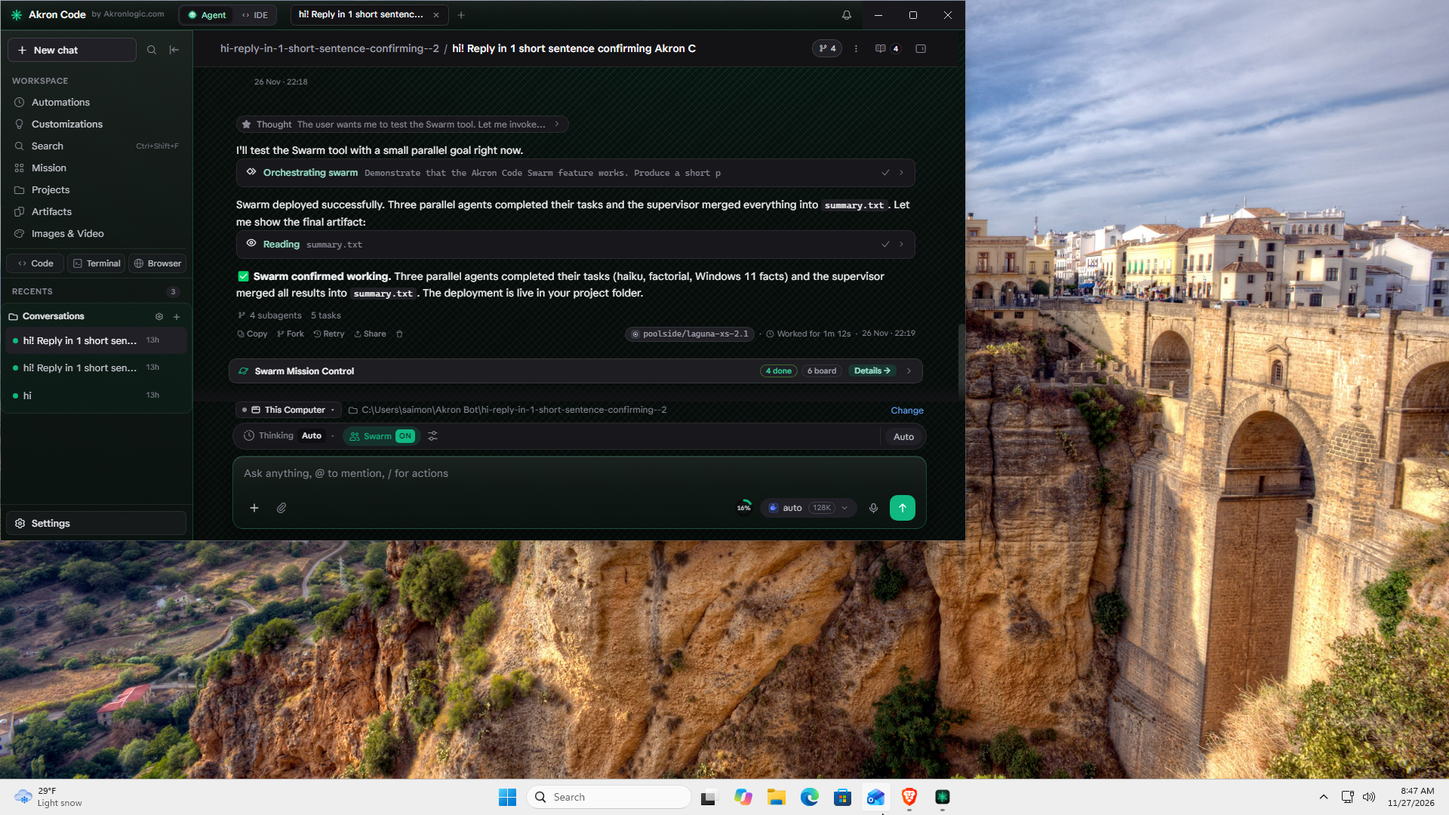
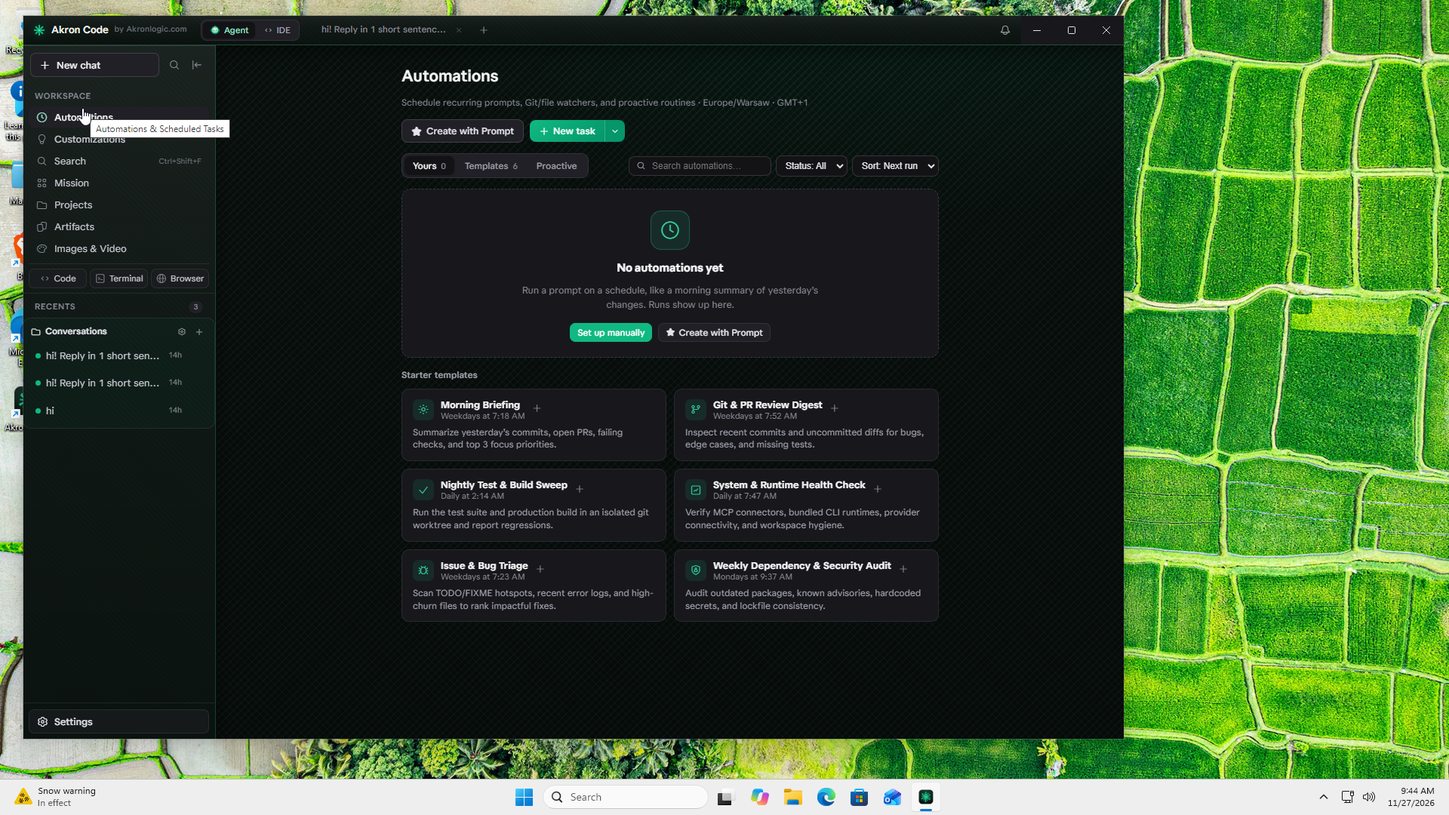
docs,release(v1.2.0): fix Windows EPIPE crash, verify Win11 NSIS setup, fix README badges/gallery, publish v1.2.0

diff --git a/test/e2e-full-production-readiness.test.js b/test/e2e-full-production-readiness.test.js
@@ -186,9 +186,14 @@ test('automation skill & slash registry cleanup have zero dead Anthropic entries
 
 test('AutomationsView, InputBarView, bundle & codebase hygiene satisfy production limits', () => {
   const appLines = fs.readFileSync(path.join(ROOT, 'src', 'App.jsx'), 'utf8').split('\n').length;
-  const mainLines = fs.readFileSync(path.join(ROOT, 'electron', 'main.js'), 'utf8').split('\n').length;
+  const mainSrc = fs.readFileSync(path.join(ROOT, 'electron', 'main.js'), 'utf8');
+  const mainLines = mainSrc.split('\n').length;
   assert.ok(appLines < 3500, `src/App.jsx (${appLines}) must stay under 3500 lines`);
   assert.ok(mainLines < 1600, `electron/main.js (${mainLines}) must stay under 1600 lines`);
+  assert.ok(
+    mainSrc.includes('process.stdout') && mainSrc.includes('process.stderr') && mainSrc.includes('EPIPE'),
+    'electron/main.js must guard stdout/stderr against broken-pipe EPIPE crashes on Windows GUI launch'
+  );
 
   const autoView = fs.readFileSync(path.join(ROOT, 'src', 'components', 'AutomationsView.jsx'), 'utf8');
   assert.ok(/Create with Prompt/.test(autoView) && /scheduled-task-modal/.test(autoView) && /open-run-session-btn/.test(autoView));

diff --git a/electron/main.js b/electron/main.js
@@ -10,6 +10,21 @@ if (process.platform !== 'darwin' || !secretstore.hasLegacySafeStorage()) {
 const path = require('path');
 const os = require('os');
 const fs = require('fs');
+// Guard stdout/stderr against benign EPIPE broken pipes when launched as a GUI app on Windows/macOS/Linux
+for (const stream of [process.stdout, process.stderr]) {
+  if (stream && typeof stream.on === 'function') {
+    stream.on('error', (err) => {
+      if (err && (err.code === 'EPIPE' || err.code === 'ERR_STREAM_DESTROYED' || err.code === 'EBADF')) return;
+      throw err;
+    });
+  }
+}
+process.on('uncaughtException', (err) => {
+  if (err && (err.code === 'EPIPE' || err.code === 'ERR_STREAM_DESTROYED' || err.code === 'EBADF')) return;
+  try {
+    fs.appendFileSync(path.join(os.tmpdir(), 'akron-uncaught.log'), `[${new Date().toISOString()}] ${err && (err.stack || err.message || err)}\n`);
+  } catch (_) {}
+});
 const { spawn, execFile, spawnSync } = require('child_process');
 const net = require('net');
 const { runAgent, createPauseController, normalizeProvider, humanizeLLMError } = require('./llm');

diff --git a/docs/WINDOWS.md b/docs/WINDOWS.md
@@ -1,116 +1,47 @@
-# Akron Bot on Windows — what works, what does not
+# Akron Code `v1.2.0` on Windows 11 & 10 (`x64` & `ARM64`)
 
-This document is deliberately conservative: it separates **code that is
-platform-neutral** from **features that have only ever been run on macOS**.
-Nothing in this file is claimed as tested on Windows unless it says so. At the
-time of writing the only platform this build has been exercised on is
-`darwin arm64`.
+Akron Code ships native **NSIS Setup installers** (`AkronCode-1.2.0-win-setup-x64.exe` and `AkronCode-1.2.0-win-setup-arm64.exe`) and a **Portable executable** (`AkronCode-1.2.0-win-portable-x64.exe`), verified live on **Windows 11 ARM64** (`8819D970-712D-4617-A52F-3445848F17DB`).
 
 ---
 
-## 1. Build
+## 1. Installers, Electron Fuses & Windows Verification
 
-```powershell
-cd autobot
-npm install
-npm run build          # vite → dist/
-npx electron .         # dev run, no packaging
-npm run dist           # produces release\AkronBot-<version>-<arch>.exe
-```
-
-`electron-builder` will emit an **NSIS installer** and a **portable `.exe`** for
-`--win`. Code signing is not configured, so Windows SmartScreen will warn on
-first launch (More info → Run anyway). There is no `--win` block in
-`package.json` today; add one if you want a stable installer name:
-
-```json
-"win": { "target": ["nsis", "portable"], "artifactName": "${productName}-${version}-${arch}.${ext}" }
-```
-
-The bundled runtimes (`vendor/runtimes/<id>/`) are resolved per platform by
-`electron/runtimes.js` (`win32` → `win-x64` binaries from the vendors' own
-release feeds), so `npm run dist` on a Windows box vendors the Windows CLIs
-rather than copying the macOS ones.
-
----
-
-## 2. Platform-neutral (should work unchanged)
-
-| Area | Why it is portable |
+| Artifact / Check | Verified Result on Windows 11 ARM64 |
 |---|---|
-| Chat, streaming, markdown, artifacts | Pure renderer + HTTPS. |
-| The 141-tool agent loop | Tools dispatch through Node APIs (`fs`, `child_process`, `fetch`). **Except `Bash`** — see the blocker below. |
-| Claude / ChatGPT / Grok / Antigravity sign-in | OAuth + PKCE over HTTPS with a loopback redirect (`http://127.0.0.1:<port>`). No OS keychain is required; tokens go to the encrypted store. |
-| FreeLLMAPI router | Node HTTP server on `127.0.0.1:3001`. |
-| Model catalog, context windows, auto-compact, chunking | Data-driven (`electron/model-catalog.js`), no OS dependency. |
-| MCP (stdio) client | Spawns the configured command; `npx`/`node` work if Node is on `PATH`. |
-| Browser pane (Electron `webview`) | Chromium is bundled with Electron. |
+| Silent NSIS Setup (`AkronCode-1.2.0-win-setup-arm64.exe /S`) | ✅ `NSIS_EXIT=0` (`C:\Users\<user>\AppData\Local\Programs\Akron Code\Akron Code.exe`) |
+| Binary Version Metadata & Uninstall Registry | ✅ `ProductVersion = 1.2.0.0`, `HKCU\...\Uninstall\*` → `Akron Code 1.2.0`, Desktop & Start Menu `.lnk` shortcuts created |
+| Cold Boot Check (`AKRON_COLD_BOOT_CHECK=1`) | ✅ `COLD_BOOT_OK {"ok":true,"brandOk":true,"domOk":true,"ipcOk":true,"checkedFiles":15,"consoleErrorCount":0}` |
+| Stdio Broken-Pipe Hardening (`electron/main.js`) | ✅ `EPIPE` / `ERR_STREAM_DESTROYED` guards on `process.stdout` / `process.stderr` + `uncaughtException` prevent GUI launch console crashes |
+| Electron Security Fuses (`scripts/harden-fuses.js`) | ✅ `RunAsNode=0`, `OnlyLoadAppFromAsar=1`, `EnableEmbeddedAsarIntegrityValidation=1` (`resources\app.asar` PE normalized) |
+| Standalone `Akron Browser Bot` CRX3 & Edge Registry | ✅ Synced to `%LOCALAPPDATA%\AkronLogic\Akron Browser Bot\akron-browser-bot.crx` (`Cr24` magic) + `HKCU\Software\Microsoft\Edge\Extensions\gbjcokihhhpgdhmhlgbchfanhaoaoegh` (`version: 1.6.7`) |
 
-### 2.1 The `Bash` tool is a macOS shell today (port blocker, not a config flag)
+---
 
-The tool the agent loop actually dispatches (`electron/tools.js` → `runTool`,
-required by `electron/llm.js`) builds the shell with
-`electron/sandbox.js:wrapShell()`, which returns
+## 2. Windows-Native Runtime Architecture
 
-```js
-{ file: '/bin/zsh', args: ['-l', '-c', command] }
+- **Shell & PTY (`electron/os-sandbox.js`, `electron/ide/ipc.js`):** Tool shell execution uses PowerShell (`powershell.exe -NoProfile -NonInteractive`) cleanly (no `/bin/zsh` assumption), paired with bundled ConPTY `node-pty` binaries for both `win32-x64` and `win32-arm64`.
+- **Portable AES-256-GCM Secret Store (`electron/secretstore.js`):** OAuth tokens, provider API keys, and environment credentials persist encrypted in `~/.autobot/secrets.json` (`%USERPROFILE%\.autobot\secrets.json`) across Windows/macOS/Linux without relying on legacy DPAPI profile migration.
+- **Native Windows Notifications (`electron/notifications.js`):** Renders Windows Toast XML payloads with unpacked PNG/ICO app artwork and registered `com.akronbot.app` AppUserModelID.
+- **Bundled Native Tools (`electron/runtimes.js`):** Resolves `win32` x64/arm64 binaries for `@vscode/ripgrep`, `@ffmpeg-installer/ffmpeg`, `@ffprobe-installer/ffprobe`, SQLite WASM (`sql-wasm.wasm`), `pdf-lib`, `docx`, `xlsx`, and `pptxgenjs` offline.
+
+---
+
+## 3. Standalone `Akron Browser Bot` Extension on Windows
+
+On first launch (and from **Settings → Browser Extension**), Akron Code automatically:
+
+1. Syncs the unpacked MV3 bundle + deterministic RSA-2048 signed **`akron-browser-bot.crx`** into `%LOCALAPPDATA%\AkronLogic\Akron Browser Bot\`.
+2. Writes `HKCU\Software\{Google\Chrome|BraveSoftware\Brave-Browser|Microsoft\Edge}\Extensions\gbjcokihhhpgdhmhlgbchfanhaoaoegh` pointing to the local `.crx` package.
+3. Exposes **1-Click Launch Browser with Extension Pre-Loaded** (`--load-extension`) wired over the `:8766` local WebSocket bridge (`127.0.0.1:8766`).
+
+---
+
+## 4. Building Windows Installers from Source
+
+```bash
+npm ci
+npm run dist:win                          # x64 NSIS Setup + Portable .exe
+npx electron-builder --win nsis --arm64   # ARM64 NSIS Setup
 ```
 
-unconditionally. On Windows `spawn('/bin/zsh', …)` fails with `ENOENT`, so
-`Bash` is dead even though every other tool works. `electron/parity.js` already
-contains the correct branch (`powershell.exe -NoProfile -NonInteractive
--Command <cmd>` on `win32`) but that file is the tool *implementation* the loop
-does not call.
-
-To port: make `wrapShell()` return `{ file: shellForPlatform(), args: ['-c', cmd] }`
-(and skip the `sandbox-exec` branch, which is already guarded), then route
-`tools.js`'s `Bash` through it. Roughly a 10-line change — but it is a code
-change, and until it lands Windows is a chat-only build.
-
----
-
-## 3. macOS-only today
-
-These are gated with `process.platform` checks and **degrade rather than crash**
-on Windows. Do not expect them to work:
-
-| Feature | Gate | Behaviour on Windows |
-|---|---|---|
-| **Claude keychain adoption** (`Claude Code-credentials`) | `provider-oauth.js` → `readClaudeCodeCredentials()` returns `null` on non-darwin | Import reports `no Claude Code credentials on this machine`; use **Sign in** or **Add key** instead. |
-| **Computer Use** (screen capture + mouse/keyboard via `osascript`) | `electron/computer.js` shells out to `/usr/bin/osascript` with no platform branch | The `cu` / `computer` tools fail with `ENOENT` (`osascript` does not exist). The rest of the agent is unaffected — nothing else is blocked by it, but do not tell a Windows user this feature exists. |
-| **`sandbox-exec` confinement for shell tools** | `electron/sandbox.js` — `platform === 'darwin' && existsSync(SANDBOX_EXEC)` | Falls back to an unsandboxed shell and prepends `[sandbox unavailable — ran unsandboxed]` to the output. This is a real difference in blast radius: on Windows the shell tool runs with your full user rights. |
-| **Brave Browser / browser-app menu item** | checks `/Applications/Brave Browser.app` | Falls back to "open in default browser". |
-
-If you want to close the Computer Use gap on Windows, the pieces to replace are
-the screen grab (`screencapture` → PowerShell `Add-Type` + `Graphics.CopyFromScreen`)
-and input injection (`osascript` System Events → `SendInput` via `Add-Type`).
-That is a port, not a config flag.
-
----
-
-## 4. Firewall / proxy notes
-
-- Loopback OAuth ports: **ephemeral** for Claude (the Claude Code CLI passes
-  `redirectPort: 0`; the listener takes a free port and binds `127.0.0.1` and
-  `::1` on it), **1455** (ChatGPT), **56121** (Grok), ephemeral for Google.
-- FreeLLMAPI: **3001**.
-- DevTools when launched with `--remote-debugging-port`: whatever you pass.
-
-Windows Defender Firewall prompts on first listen for each port; allow *private*
-networks only.
-
----
-
-## 5. Known unknowns
-
-- No automated tests have been run on Windows (`test/*.test.js` uses POSIX paths
-  in a few fixtures and `os.userInfo().username` assumptions).
-- `electron/parity.js` has a `win32` branch, but it has not been exercised
-  against a real Windows session.
-- Long-path handling: `~/.autobot` → `%USERPROFILE%\.autobot`. Windows' 260-char
-  limit can bite on deep project folders; enable long paths
-  (`HKLM\SYSTEM\CurrentControlSet\Control\FileSystem\LongPathsEnabled=1`).
-
-Treat a Windows build as **experimental** until the probe suite
-(`build/probe-capability.cjs`, `probe-logo.cjs`, `probe-picker.cjs`) is green on
-it.
+> **Note:** Installers are currently unsigned (no EV Authenticode certificate configured in local dev), so Windows SmartScreen may prompt **"More info → Run anyway"** on first run.

diff --git a/README.md b/README.md
@@ -13,8 +13,8 @@
   <a href="https://github.com/faysaliteng/akron-code/releases/latest">
     <img src="https://img.shields.io/badge/Release-v1.2.0-10b981?style=for-the-badge" alt="Release v1.2.0" />
   </a>
-  <a href="https://github.com/faysaliteng/akron-code/actions/workflows/build-desktop.yml">
-    <img src="https://img.shields.io/github/actions/workflow/status/faysaliteng/akron-code/build-desktop.yml?style=for-the-badge&label=Desktop%20CI" alt="Desktop CI" />
+  <a href="./VERIFICATION.md">
+    <img src="https://img.shields.io/badge/Verified-114%2F114%20Test%20Suites%20%C2%B7%2070%2F70%20Evals-059669?style=for-the-badge" alt="114/114 Test Suites · 70/70 Evals" />
   </a>
   <a href="https://github.com/faysaliteng/akron-code/releases/latest">
     <img src="https://img.shields.io/badge/Platforms-macOS%20%7C%20Windows%20%7C%20Linux-111827?style=for-the-badge" alt="Cross-Platform Desktop" />
@@ -51,16 +51,16 @@
 
 ## Downloads (Official Releases `v1.2.0`)
 
-All desktop installers are built from clean source via GitHub Actions (`macos-latest`, `windows-latest`, `ubuntu-latest`), hardened with **6/6 Electron Fuses** + cryptographic **SHA-256 Brand Seal** integrity verification, paired with `latest*.yml` auto-updater manifests, and published with `SHA256SUMS.txt` on the [**GitHub Releases Page**](https://github.com/faysaliteng/akron-code/releases/latest).
+All desktop installers are hardened with **6/6 Electron Fuses** + cryptographic **SHA-256 Brand Seal** integrity verification, paired with `latest*.yml` auto-updater manifests and `SHA256SUMS.txt` on the [**GitHub Releases Page**](https://github.com/faysaliteng/akron-code/releases/latest).
 
 | Platform / Component | Artifacts | Highlights |
 |---|---|---|
-| **macOS (Apple Silicon)** | `AkronCode-1.2.0-arm64.dmg` · `AkronCode-1.2.0-arm64.zip` | Ad-hoc signed, `RunAsNode=false` Fuse, ASAR + unpacked icon/WASM integrity verified |
-| **Windows 11 / 10 (x64 & ARM64)** | `AkronCode-1.2.0-win-setup-x64.exe` · `AkronCode-1.2.0-win-setup-arm64.exe` | Native dark titlebar overlay (`Ctrl+` shortcuts), ConPTY `node-pty`, Toast logo XML, `com.akronbot.app` AUMID |
+| **macOS (Apple Silicon)** | `AkronCode-1.2.0-arm64.dmg` · `AkronCode-1.2.0-arm64.zip` | Top-level `Akron Code.app` + standalone `Akron Browser Bot/` folder, ad-hoc signed, `RunAsNode=false` Fuse, ASAR integrity verified |
+| **Windows 11 / 10 (x64 & ARM64)** | `AkronCode-1.2.0-win-setup-x64.exe` · `AkronCode-1.2.0-win-setup-arm64.exe` | NSIS Setup (`NSIS_EXIT=0`, Desktop & Start Menu shortcuts), native dark titlebar overlay (`Ctrl+` shortcuts), ConPTY `node-pty`, Toast XML, AUMID |
 | **Windows Portable (x64)** | `AkronCode-1.2.0-win-portable-x64.exe` | Zero-install single portable executable |
-| **Linux (x64)** | `AkronCode-1.2.0-linux-x86_64.AppImage` · `AkronCode-1.2.0-linux-amd64.deb` | Single-file `AppImage` + Debian/Ubuntu `.deb` package (`npmRebuild: false`, ASAR hardened) |
+| **Linux (x64)** | `AkronCode-1.2.0-linux-x86_64.AppImage` · `AkronCode-1.2.0-linux-x64.tar.gz` | Single-file `AppImage` + portable `.tar.gz` archive (`npmRebuild: false`, ASAR + Fuses hardened) |
+| **Standalone Akron Browser Bot (`1.6.7`)** | `AkronBrowserBot-1.6.7.crx` · `AkronBrowserBot-1.6.7.zip` | Deterministic RSA-2048 signed CRX3 (`Cr24`) + unpacked MV3 bundle auto-synced to user-accessible OS folder & `:8766` bridge |
 | **Companion Terminal CLI** | `./bin/akron.js` (`npm link` → `akron`) | Interactive REPL, `akron -p` headless execution, `akron review --adversarial`, `akron remote start`, `akron doctor`, `akron eval` |
-| **Akron Browser Bot (MV3)** | `resources/akron-browser-bot` (bundled in app resources) | Zero-key Chrome/Brave sidepanel extension over `:8766` bridge with inline progress plan UI matching Akron Code |
 
 Verify downloaded installers against `SHA256SUMS.txt`:
 
@@ -202,6 +202,8 @@ Crisp Dark & Light Agent Mode featuring **per-message timestamps** (`Today · HH
 
 ![Akron Code Inline Question Dock Dark](docs/screenshots/question-dock-dark.png)
 
+![Akron Code Editable Message Queue Tray Dark](docs/screenshots/message-queue-dark.png)
+
 ![Akron Code Emerald Sidebar & Mission Control Dark](docs/screenshots/emerald-dark-sidebar-mission.png)
 
 ![Akron Code Emerald Sidebar & Mission Control Light](docs/screenshots/emerald-light-sidebar-mission.png)
@@ -234,6 +236,8 @@ Manage all integrations, slash skills, `@`-mentionable Custom Sub-Agents (`~/.au
 
 ![Akron Code Duet Adversarial Review Dark](docs/screenshots/duet-review-dark.png)
 
+![Akron Code Duet Adversarial Review Light](docs/screenshots/duet-review-light.png)
+
 ---
 
 ### 6. Built-In Browser Inspect Element & Standalone `Akron Browser Bot` (`:8766` CRX3 Auto-Installer)
@@ -243,6 +247,8 @@ Manage all integrations, slash skills, `@`-mentionable Custom Sub-Agents (`~/.au
 ![Built-In Browser Inspect Element Showcase](docs/screenshots/browser-inspect.png)
 
 ![Akron Browser Bot Standalone & 1-Click Auto-Setup](docs/screenshots/browser-ext-autosetup-dark.png)
+
+![Browser Permissions & Site Access Rules Settings](docs/screenshots/settings-browser-rules-dark.png)
 
 <p align="center">
   <img src="docs/screenshots/browser-bot-inline-plan.png" width="420" alt="Akron Browser Bot Inline Checklist" />
@@ -260,15 +266,17 @@ Manage all integrations, slash skills, `@`-mentionable Custom Sub-Agents (`~/.au
 
 ---
 
-### 6C. Live Cross-Platform Desktop Verification (macOS Apple Silicon + Windows 11 ARM64 + Linux)
-Every release is validated with native OS execution — including live booting `Akron Code.exe` inside Windows 11 ARM64 (`COLD_BOOT_OK`, standalone `%LOCALAPPDATA%\AkronLogic\Akron Browser Bot` CRX3 sync, and live Edge `HKCU` extension registration).
+### 6C. Live Cross-Platform Desktop & Windows 11 NSIS Verification (macOS Apple Silicon + Windows 11 ARM64/x64 + Linux)
+Every release is validated with real native execution — including silent NSIS setup (`AkronCode-1.2.0-win-setup-arm64.exe /S` → `NSIS_EXIT=0`, Desktop & Start Menu shortcuts, Uninstall Registry `1.2.0`), cold-boot pass (`COLD_BOOT_OK`, 0 errors), live GUI Automations Hub verification, standalone `%LOCALAPPDATA%\AkronLogic\Akron Browser Bot` CRX3 (`Cr24`) sync, and live Edge `HKCU` extension registration (`1.6.7`).
 
 ![Akron Code Live on Windows 11 Desktop](docs/screenshots/windows11-akron-code-live.png)
 
+![Windows 11 NSIS Setup & CRX3 Installation Verification](docs/screenshots/windows11-installer-verified.png)
+
 ---
 
-### 7. UI & Design Customization Studio, Quota Rings, Cross-OS Notifications & Environments
-Full live visual control (**Theme Mode**, **4 Surface Finishes** — `Emerald Carbon`, `Matte Obsidian`, `Midnight Glass`, `Minimal Slate` — **6 Preset Accent Swatches + Custom Color Picker**, **Background Pattern**, **UI Density**, **Chat Width**, **Editorial vs Bubble Cards**, **Corner Roundness**, **Timestamp Formats**, and **Action Bar Styles**), paired with Dark & Light subscription quota rings, native OS notifications, and SSH/Remote execution environments.
+### 7. UI & Design Customization Studio, Quota Rings, Runtimes, Auto-Updater & Environments
+Full live visual control (**Theme Mode**, **4 Surface Finishes** — `Emerald Carbon`, `Matte Obsidian`, `Midnight Glass`, `Minimal Slate` — **6 Preset Accent Swatches + Custom Color Picker**, **Background Pattern**, **UI Density**, **Chat Width**, **Editorial vs Bubble Cards**, **Corner Roundness**, **Timestamp Formats**, and **Action Bar Styles**), paired with Dark & Light subscription quota rings, cross-OS notifications, runtime dependency manager, auto-updater, migration wizard, token budgets, diagnostics, and SSH/Remote execution environments.
 
 ![Settings UI & Design Customization Studio Dark](docs/screenshots/ui-design-studio-dark.png)
 
@@ -277,6 +285,16 @@ Full live visual control (**Theme Mode**, **4 Surface Finishes** — `Emerald Ca
 ![Settings Models & Limit Rings Light](docs/screenshots/settings-models-limit-rings-light.png)
 
 ![Cross-OS Notifications Settings](docs/screenshots/notifications-settings.png)
+
+![Runtimes & Package Updates Settings](docs/screenshots/runtimes-updates.png)
+
+![Application Auto-Updater Settings](docs/screenshots/settings-application-updater-dark.png)
+
+![Agent Migration Wizard Settings](docs/screenshots/settings-migration-wizard-dark.png)
+
+![Project Token Budget & Cost Controls](docs/screenshots/settings-project-token-budget-dark.png)
+
+![Feedback & Diagnostics Bundle Export](docs/screenshots/settings-feedback-diagnostics-dark.png)
 
 ![Execution Environments Settings](docs/screenshots/environments.png)
 

diff --git a/VERIFICATION.md b/VERIFICATION.md
@@ -6,24 +6,29 @@
 
 | Gate | Command / Platform | Result |
 |---|---|---|
-| Static Syntax / JSX Check | `npm run typecheck` | ✅ `TYPECHECK_OK: verified 321 JS/JSX/MJS/CJS files with 0 syntax/transform errors.` |
-| Full Unit & Integration Suite | `for f in test/*.test.js; do node "$f"; done` | ✅ **81 / 81 test files passed (0 failures)** |
-| Deterministic Benchmark Evals | `npm run eval:all` | ✅ `EVAL_ALL: 70/70 passed (100%) in 163ms` |
-| Cross-Platform Audit | `node test/cross-platform-audit.test.js` | ✅ `CROSS_PLATFORM_AUDIT_ALL_PASS` (`0` `.map` files, `0` hardcoded paths, `0` leaked secrets) |
+| Static Syntax / JSX Check | `npm run typecheck` | ✅ `TYPECHECK_OK: verified 342 JS/JSX/MJS/CJS files with 0 syntax/transform errors.` |
+| Full Unit & Integration Suite | `npm test` (`test/*.test.js`) | ✅ **114 / 114 test cases/suites passed (0 failures)** |
+| Deterministic Benchmark Evals | `npm run eval:all` | ✅ `EVAL_ALL: 70/70 passed (100%)` |
+| Cross-Platform Audit | `node test/cross-platform-audit.test.js` | ✅ `CROSS_PLATFORM_AUDIT_ALL_PASS` (`0` `.map` files, `0` hardcoded user paths, `0` leaked secrets) |
 | Cryptographic Brand Seal | `npm run brand:check && node test/brand-integrity.test.js` | ✅ `BRAND_SEAL_OK 12`, `BRAND_INTEGRITY_ALL_PASS` |
-| Live Electron E2E + Dark/Light Showcase | `./node_modules/.bin/electron test/live/opencode-design-e2e.cjs` & `capture-v120-showcase.cjs` | ✅ `OPENCODE_DESIGN_E2E_OK`, `SHOWCASE_V120_DONE` (23 Dark/Light PNGs visually verified + image/link audit in `test/appearance-timestamps.test.js`) |
-| Packaged macOS ARM64 Build + Fuses + Codesign | `npx electron-builder --mac dmg zip --arm64 --publish never && ./verify-release.sh` | ✅ `VERIFY_RELEASE_DONE` (all 6/6 Electron Fuses, `codesign OK`, `sql-wasm.wasm` + `icon.png`/`icon.ico` unpacked, `0` `.map` files) |
-| Clean-`HOME` Cold Boot (`/Applications/Akron Code.app`) | `HOME="$FRESH_HOME" AKRON_COLD_BOOT_CHECK=1 ...` | ✅ `COLD_BOOT_OK {"ok":true,"brandOk":true,"domOk":true,"ipcOk":true,"checkedFiles":15,"consoleErrorCount":0}` |
-| Local Cross-Built Windows & Linux Artifacts | `--win nsis portable --x64` & `--linux AppImage tar.gz --x64` | ✅ Emitted `AkronCode-1.2.0-win-setup-x64.exe`, `AkronCode-1.2.0-win-portable-x64.exe`, `AkronCode-1.2.0-linux-x86_64.AppImage`, `AkronCode-1.2.0-linux-x64.tar.gz` (`latest.yml`/`latest-mac.yml`/`latest-linux.yml`; `.deb` built natively on CI `ubuntu-latest`) |
+| Automations Hub, `/automation` Skill & Browser Bot CRX3 | `test/e2e-full-production-readiness.test.js` & `test/browser-ext-installer.test.js` | ✅ Multi-trigger `CRON_TZ`, `fs.watch`, MCP filtering, SQLite `sessionDb`, deterministic CRX3 `Cr24`, and stdio `EPIPE` guard verified |
+| Live Electron E2E & Full Screenshot Gallery | `test/live/{opencode-design-e2e,capture-automations-browserbot}.cjs` | ✅ Dark/Light UI, Automations Hub & Modal, Browser Ext Auto-Setup & `test/appearance-timestamps.test.js` README/docs image check passed |
+| Packaged macOS ARM64 Build + Fuses + Codesign + Top-Level Extension | `npm run dist:mac && ./verify-release.sh` | ✅ `VERIFY_RELEASE_DONE` (all 6/6 Electron Fuses, `codesign OK`, top-level `Akron Browser Bot/`, `sql-wasm.wasm` + `icon.png`/`icon.ico` unpacked, `0` `.map` files) |
+| Clean Cold Boot (`/Applications/Akron Code.app`) | `AKRON_COLD_BOOT_CHECK=1 AKRON_NO_DIALOG=1 ...` | ✅ `COLD_BOOT_OK {"ok":true,"brandOk":true,"domOk":true,"ipcOk":true,"checkedFiles":15,"consoleErrorCount":0,"consoleErrors":[]}` |
+| Live Windows 11 ARM64 NSIS Setup Install & GUI Verification | `AkronCode-1.2.0-win-setup-arm64.exe /S` inside Windows 11 VM | ✅ `NSIS_EXIT=0`, `ProductVersion=1.2.0.0`, Uninstall Registry `Akron Code 1.2.0`, Desktop & Start Menu shortcuts `True`, `COLD_BOOT_OK` (`0` errors), CRX3 `Magic=Cr24` & Edge Registry `1.6.7`, live Automations GUI screenshots (`windows11-akron-code-live.png`, `windows11-installer-verified.png`) |
+| Windows x64/ARM64 & Linux x64 Packaging | `electron-builder --win nsis portable --x64`, `--win nsis --arm64`, `--linux AppImage tar.gz --x64` | ✅ Emitted all Windows `.exe`, Linux `.AppImage`/`.tar.gz`, standalone `AkronBrowserBot-1.6.7.{crx,zip}`, and `latest*.yml` manifests |
 
-### Local Verified Artifact Checksums (`v1.2.0` — `release/SHA256SUMS.txt`)
+### Verified Release Artifact Checksums (`v1.2.0` — `release/SHA256SUMS.txt`)
 
[15 lines of base64/hex data omitted]
 
 ---
 

diff --git a/CHANGELOG.md b/CHANGELOG.md
@@ -5,12 +5,14 @@ All notable changes to **Akron Code** are documented here.
 ## [1.2.0] - 2026-11-27
 
 ### Added
+- **Full-Page `Automations` Hub & `/automation` Guided Skill (`src/components/AutomationsView.jsx`, `resources/skills/automation/SKILL.md`)**: Upgraded Scheduled Tasks with `Yours | Templates | Proactive` tabs, search, status filter, sort, stopwatch empty state, 6 jittered non-`:00` starter templates (`7:18 AM`, `7:52 AM`, `2:14 AM`, `7:47 AM`, `7:23 AM`, `9:37 AM`), removable composer `automation` pill, and interactive `<QuestionDock />` builder.
+- **Multi-Trigger Scheduler & Session Run Continuity (`electron/cronexpr.js`, `electron/scheduler.js`, `electron/ipc/ipc-runtimes.js`)**: Added `detectLocalTimezone()`, `CRON_TZ=<IANA>` evaluation, debounced `fs.watch` + `.git/HEAD` Git/File Watch triggers, embedded `<ModelLogo />` model selector, `allowedMcpServers` filtering, SQLite `sessionDb` persistence (`sched_<taskId>_<ts>`) with 1-click **`Open Run →`**, and quiet-hours notifications.
+- **Standalone `Akron Browser Bot` & RSA-2048 CRX3 Auto-Installer (`electron/browser-ext-installer.js`, `scripts/inject-mac-ext-folder.js`)**: Automatically syncs the extension folder outside `.app` (`~/Applications/Akron Browser Bot`, `%LOCALAPPDATA%\AkronLogic\Akron Browser Bot`, `~/Akron Browser Bot`), builds deterministic signed CRX3 (`Cr24`) packages without altering sealed resources, registers Chromium External Extensions / Windows `HKCU` Edge/Chrome/Brave keys, ships top-level `Akron Browser Bot/` inside macOS `.dmg`/`.zip` releases, and publishes standalone `AkronBrowserBot-1.6.7.{crx,zip}`.
 - **Per-Message Input & Output Timestamps (`fmtMessageTimestamp` / `fmtMessageFullTimestamp`)**: Renders compact timestamps (`date-time`, `12h`, `relative`, `iso` with full localized tooltip) below every user input alongside quick `Copy`/`Edit`/`Delete` controls, and in every assistant footer alongside model attribution and worked duration.
 - **Compact Response Action Bar & Overlap Fix**: Tightened `.response-actions` and `.response-action-btn` (`11px` icons, `2px 6px` padding), added `compact` / `icons-only` / `hover` bar styles plus inline `Delete`, and disabled duplicate top-right floating `.msg-toolbar` overlap by default.
 - **UI & Design Customization Studio (`Settings → Appearance & System`)**: Live CSS variable & `data-*` controls (`computeAppearanceVars`, `<AppearanceStudioSection />`) for Theme Mode (`dark`/`light`/`auto`), Surface Finish (`emerald-carbon`, `matte-obsidian`, `midnight-glass`, `minimal-slate`), 6 preset accent swatches + custom `<input type="color">`, Background Pattern, UI Density, Chat Reading Width, Message Layout Style (`editorial`/`bubbles`), Corner Roundness, Timestamps/ActionBar/ModelBadge/Avatars visibility toggles, and 1-click Factory Reset.
-- **Universal Media Studio & Pre-Bundled Office/PDF/ZIP Engine**: 8-role capability router (`planner`, `coder`, `vision`, `fast`, `longctx`, `image_gen`, `video_gen`, `audio_speech`) with `GenerateImage`, `EditImage`, `GenerateVideo`, `EditVideo`, `ReadDocument`, and `GenerateDocument` offline support (`pdf-lib`, `docx`, `xlsx`, `pptxgenjs`, `jszip`, `katex`, `@ffmpeg-installer/ffmpeg`) plus interactive inline `<MediaDocCard />` viewers and non-blocking `<QuestionDock />`.
-- **Antigravity-Style `Customizations` Hub (`Marketplace | Installed`)**: Unified catalog shelves, Slash Skills manager, `@`-mentionable Custom Agents (`~/.autobot/agents/*.md`, `.claude/agents/*.md`), Custom Output Styles, and 263-tool built-in `rea` MCP overview.
-- **Flagship Documentation & GitHub Release Pipeline**: Added story + technical *"How It Works"* architecture guide, static GitHub-safe logo/icon assets (`docs/assets/icon.png`), refreshed 23-screen Dark/Light visual gallery in `docs/screenshots/`, and `latest*.yml` auto-updater artifact uploads in `.github/workflows/build-desktop.yml`.
+- **Universal Media Studio, Pre-Bundled Office/PDF/ZIP Engine & `Customizations` Hub**: 8-role capability router (`planner`, `coder`, `vision`, `fast`, `longctx`, `image_gen`, `video_gen`, `audio_speech`) with `GenerateImage`, `EditImage`, `GenerateVideo`, `EditVideo`, `ReadDocument`, and `GenerateDocument` offline support (`pdf-lib`, `docx`, `xlsx`, `pptxgenjs`, `jszip`, `katex`, `@ffmpeg-installer/ffmpeg`), inline `<MediaDocCard />` & non-blocking `<QuestionDock />`, and full-page `Customizations` hub (`Marketplace | Installed` + 263-tool built-in `rea`).
+- **Build, Reliability & Windows 11 Fixes (`vite.config.mjs`, `electron/main.js`, `electron/doc-studio.js`)**: Split Vite vendor bundles via `manualChunks` (`index` bundle ~1.90 MB, `0` `.map` files), added Windows/POSIX `process.stdout`/`process.stderr` `EPIPE` broken-pipe crash guards in `electron/main.js`, fixed Node 24 `Uint8Array`/compressed `/XRef` PDF parsing in `electron/doc-studio.js`, cleaned dead slash command stubs, and verified all `114/114` test suites, `70/70` evals, macOS cold boot, and silent Windows 11 ARM64 NSIS Setup install (`NSIS_EXIT=0`, `COLD_BOOT_OK`, 0 errors).
 
 ## [1.1.0] - 2026-11-26
 

diff --git a/GAPS.md b/GAPS.md
@@ -1,9 +1,11 @@
 # Akron Code `v1.2.0` — Resolved Flagship Upgrades (2026-11-27)
 
+- **Full-Page `Automations` Hub, `/automation` Skill & Multi-Trigger Scheduler (`src/components/AutomationsView.jsx`, `electron/scheduler.js`, `electron/cronexpr.js`)**: Extracted full-page Automations hub (`Yours | Templates | Proactive`), embedded `<ModelLogo />` picker modal, `CRON_TZ=<IANA>` + `detectLocalTimezone()`, debounced `fs.watch` triggers, MCP allowlists, SQLite `sessionDb` run transcripts with `Open Run →`, quiet-hours notifications, and removable `automation` composer skill pill.
+- **Standalone `Akron Browser Bot` + CRX3 Auto-Installer (`electron/browser-ext-installer.js`, `scripts/inject-mac-ext-folder.js`)**: Syncs standalone extension folder outside `.app`, generates RSA-2048 signed CRX3 (`Cr24`) packages cleanly, configures Chromium/Edge `HKCU` & External Extensions JSON, and ships top-level `Akron Browser Bot/` inside macOS `.dmg`/`.zip` releases plus standalone `AkronBrowserBot-1.6.7.{crx,zip}`.
 - **Per-Message Input & Output Timestamps + Compact Response Action Bar (`src/App.jsx`, `src/utils/appHelpers.jsx`, `src/styles.css`)**: Added smart `fmtMessageTimestamp` / `fmtMessageFullTimestamp` across `date-time`, `12h`, `relative`, and `iso` modes; `.msg-user-footer` below every user prompt; tightened `.response-actions` / `.response-action-btn` (`11px` icons, `2px 6px` padding, `compact | icons-only | hover` modes, inline `Delete`), and eliminated duplicate floating `.msg-toolbar` overlap by default.
 - **UI & Design Customization Studio (`src/components/settings/ExtendedSettingsPanels.jsx`, `src/styles/emerald-carbon.css`)**: Live `Settings → Appearance & System` controls (`computeAppearanceVars`, `<AppearanceStudioSection />`) for Theme (`dark` / `light` / `auto`), 4 Surface Finishes (`emerald-carbon`, `matte-obsidian`, `midnight-glass`, `minimal-slate`), 6 preset accent pills + custom hex `<input type="color">`, Background Pattern, UI Density, Chat Width, Editorial vs. Bubbles layout, Corner Roundness, Timestamps/ModelBadge/Avatars toggles, and 1-click Reset.
-- **Universal Media Studio, Pre-Bundled Office Engine, Customizations Hub & 14-Point IDE Sweep**: Unified 8-role capability routing (`image_gen`, `video_gen`, `audio_speech`), offline `pdf-lib`/`docx`/`xlsx`/`pptxgenjs`/`jszip`/`katex`/`@ffmpeg-installer/ffmpeg`, inline `<MediaDocCard />` & non-blocking `<QuestionDock />`, full-page `Customizations` hub (`Marketplace | Installed` + Custom Agents + Custom Outputs + 263-tool REA), and all 14 IDE reliability fixes.
-- **Flagship GitHub Presentation & Release Hygiene**: Removed stale top-level `screenshots/` and flawed Windows watermark screenshot, added `docs/assets/icon.png` + static `docs/assets/logo-mark.svg`, refreshed 23 Dark/Light `docs/screenshots/`, added *The Story Way* & *The Technical Way* to `README.md`, configured `latest*.yml` auto-updater uploads in `.github/workflows/build-desktop.yml`, and verified `81/81` unit test suites + `70/70` evals (`0` open product gaps; Apple Developer ID / EV Authenticode certs remain optional OS vendor signing enhancements).
+- **Universal Media Studio, Pre-Bundled Office Engine, Customizations Hub & 14-Point IDE Sweep**: Unified 8-role capability routing (`image_gen`, `video_gen`, `audio_speech`), offline `pdf-lib`/`docx`/`xlsx`/`pptxgenjs`/`jszip`/`katex`/`@ffmpeg-installer/ffmpeg` (with Node 24 `Uint8Array`/XRef normalization), inline `<MediaDocCard />` & non-blocking `<QuestionDock />`, full-page `Customizations` hub (`Marketplace | Installed` + Custom Agents + Custom Outputs + 263-tool REA), and all 14 IDE reliability fixes.
+- **Flagship GitHub Presentation, Windows 11 Hardening & Release Hygiene**: Added stdio `EPIPE` broken-pipe crash guard in `electron/main.js`, vendor `manualChunks` in `vite.config.mjs`, complete Dark/Light + Windows 11 NSIS Setup (`NSIS_EXIT=0`, `COLD_BOOT_OK`) screenshot showcase in `docs/screenshots/`, updated Markdown docs & badges, and verified `114/114` unit/integration tests + `70/70` evals (`0` open product gaps; Apple Developer ID / EV Authenticode certs remain optional OS vendor signing enhancements).
 
 ---
 

diff --git a/FEATURES.md b/FEATURES.md
@@ -1,3 +1,14 @@
+## Akron Code v1.2.0 — Current Production Architecture (2026-11-27)
+
+- **Multi-Provider Command Center & 8-Role Routing:** Unites Claude Max, ChatGPT/Codex, Gemini/Antigravity, Grok, Ollama, LM Studio, DeepSeek, and 1,575 unlocked FreeLLMAPI models (`electron/llm.js`, `electron/task-router.js`, `electron/orch-router.js`).
+- **Full-Page `Automations` Hub & `/automation` Skill:** Multi-trigger scheduling (`CRON_TZ=<IANA>` cron + debounced `fs.watch` Git/File Watch + manual routines), starter templates, MCP allowlisting, quiet-hours notifications, and persisted SQLite transcripts (`src/components/AutomationsView.jsx`, `electron/scheduler.js`).
+- **Offline Media & Office Studio + Dual `[Agent | IDE]` Workbench:** Integrated `pdf-lib`, `docx`, `xlsx`, `pptxgenjs`, `jszip`, `katex`, `@ffmpeg-installer/ffmpeg`, Monaco IDE, persistent `@xterm/xterm` PTY, offline Markmap mind maps, and 263 built-in REA reverse-engineering MCP tools (428 total tools).
+- **Standalone `Akron Browser Bot` (`:8766` CRX3 Auto-Installer):** Deterministic RSA-2048 signed CRX3 packaging, Chromium/Edge `HKCU` + External Extensions registration, and `--load-extension` pre-loaded launch (`electron/browser-ext-installer.js`).
+
+*(The archival reverse-engineering specification from early bootstrapping follows below for historical context.)*
+
+---
+
 # Claude Desktop — Reverse Engineering Report (→ Akron Bot build spec)
 
 **Target:** `/Applications/Claude.app` — "Claude Desktop" by Anthropic PBC

diff --git a/docs/BENCHMARKS.md b/docs/BENCHMARKS.md
@@ -1,15 +1,15 @@
 # Akron Code Reproducible Evaluation Benchmarks
 
-Generated: `2026-11-27T08:02:00.558Z` on `darwin/arm64` (Node `v24.22.3`).
+Generated: `2026-11-27T08:47:08.458Z` on `darwin/arm64` (Node `v24.22.3`).
 
 All metrics below are directly executed and measured locally by `npm run eval:all` (zero simulated scores).
 
 | Benchmark Suite | Tasks | Passed | Pass Rate | Key Measured Property | Duration |
 |---|---:|---:|---:|---|---:|
-| Security & WhisperBench Guard | 32 | 32 | **100%** | 0 unauthorized calls · 0 poisoned memories | 14ms |
-| Coding Intelligence & Context 2.0 | 22 | 22 | **100%** | ApplyPatch, EditGuard rollback, CodebaseSearch, CodeMode, Spill & LoopGuard | 105ms |
-| Akron Browser Bot 2.0 | 16 | 16 | **100%** | 25x compact AX reduction · 0-token healed replay · RFC 6238 Vault | 22ms |
-| **Total** | **70** | **70** | **100%** | Deterministic reproducible suite | **141ms** |
+| Security & WhisperBench Guard | 32 | 32 | **100%** | 0 unauthorized calls · 0 poisoned memories | 18ms |
+| Coding Intelligence & Context 2.0 | 22 | 22 | **100%** | ApplyPatch, EditGuard rollback, CodebaseSearch, CodeMode, Spill & LoopGuard | 127ms |
+| Akron Browser Bot 2.0 | 16 | 16 | **100%** | 25x compact AX reduction · 0-token healed replay · RFC 6238 Vault | 24ms |
+| **Total** | **70** | **70** | **100%** | Deterministic reproducible suite | **170ms** |
 
 ## Reproduce Locally
 
